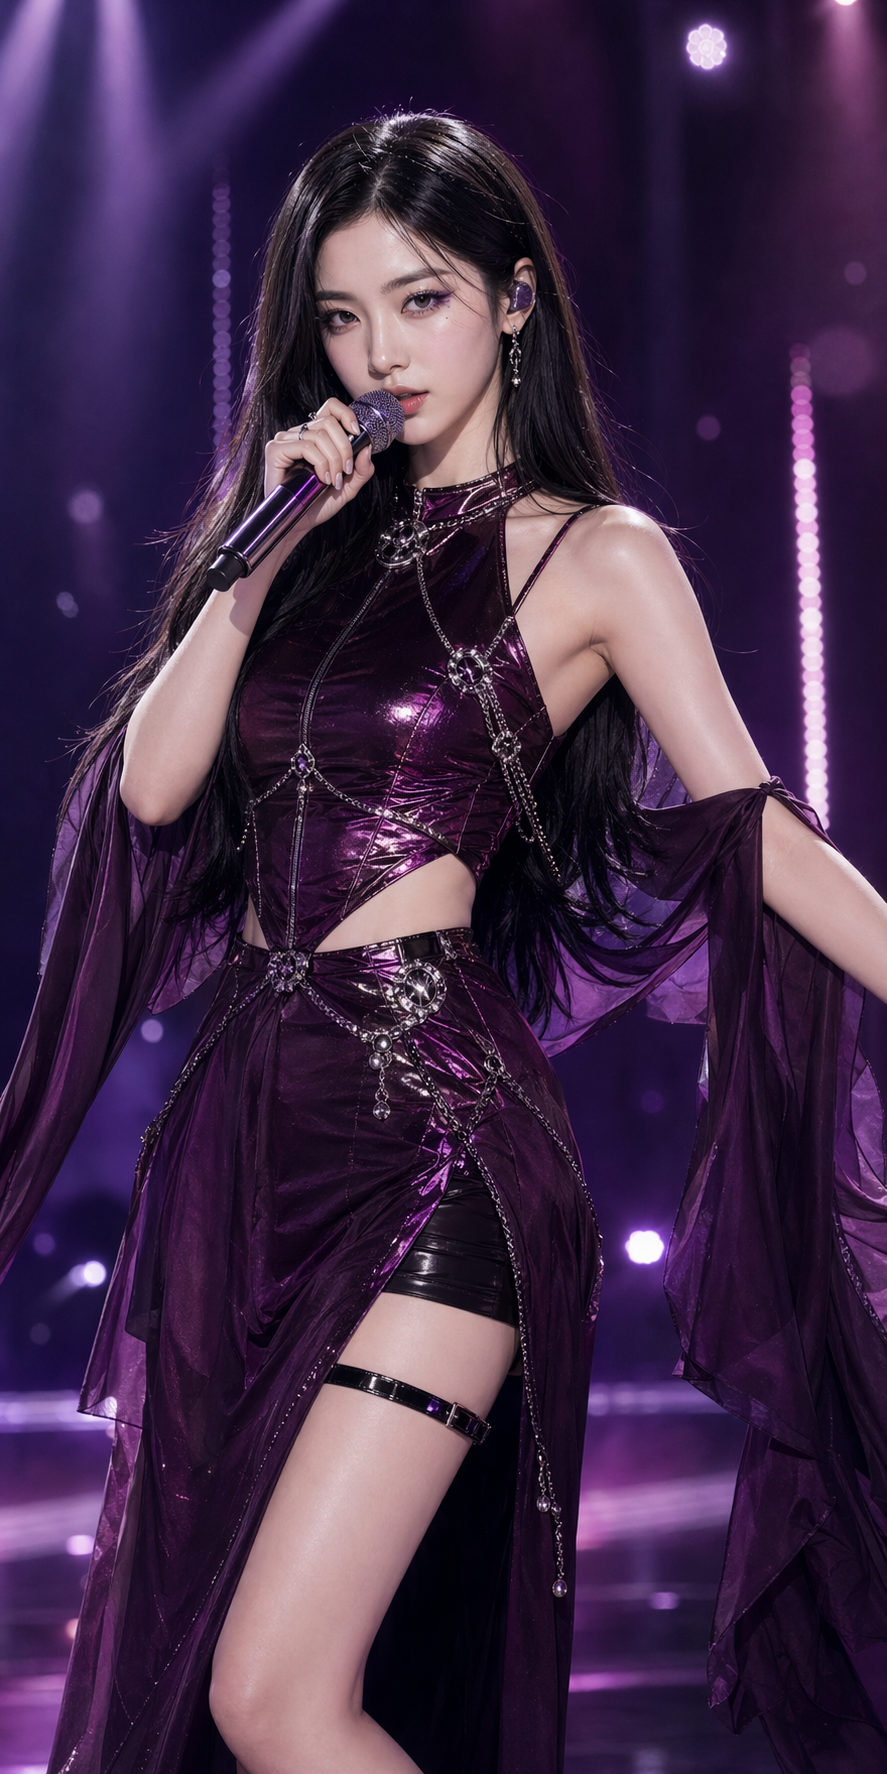
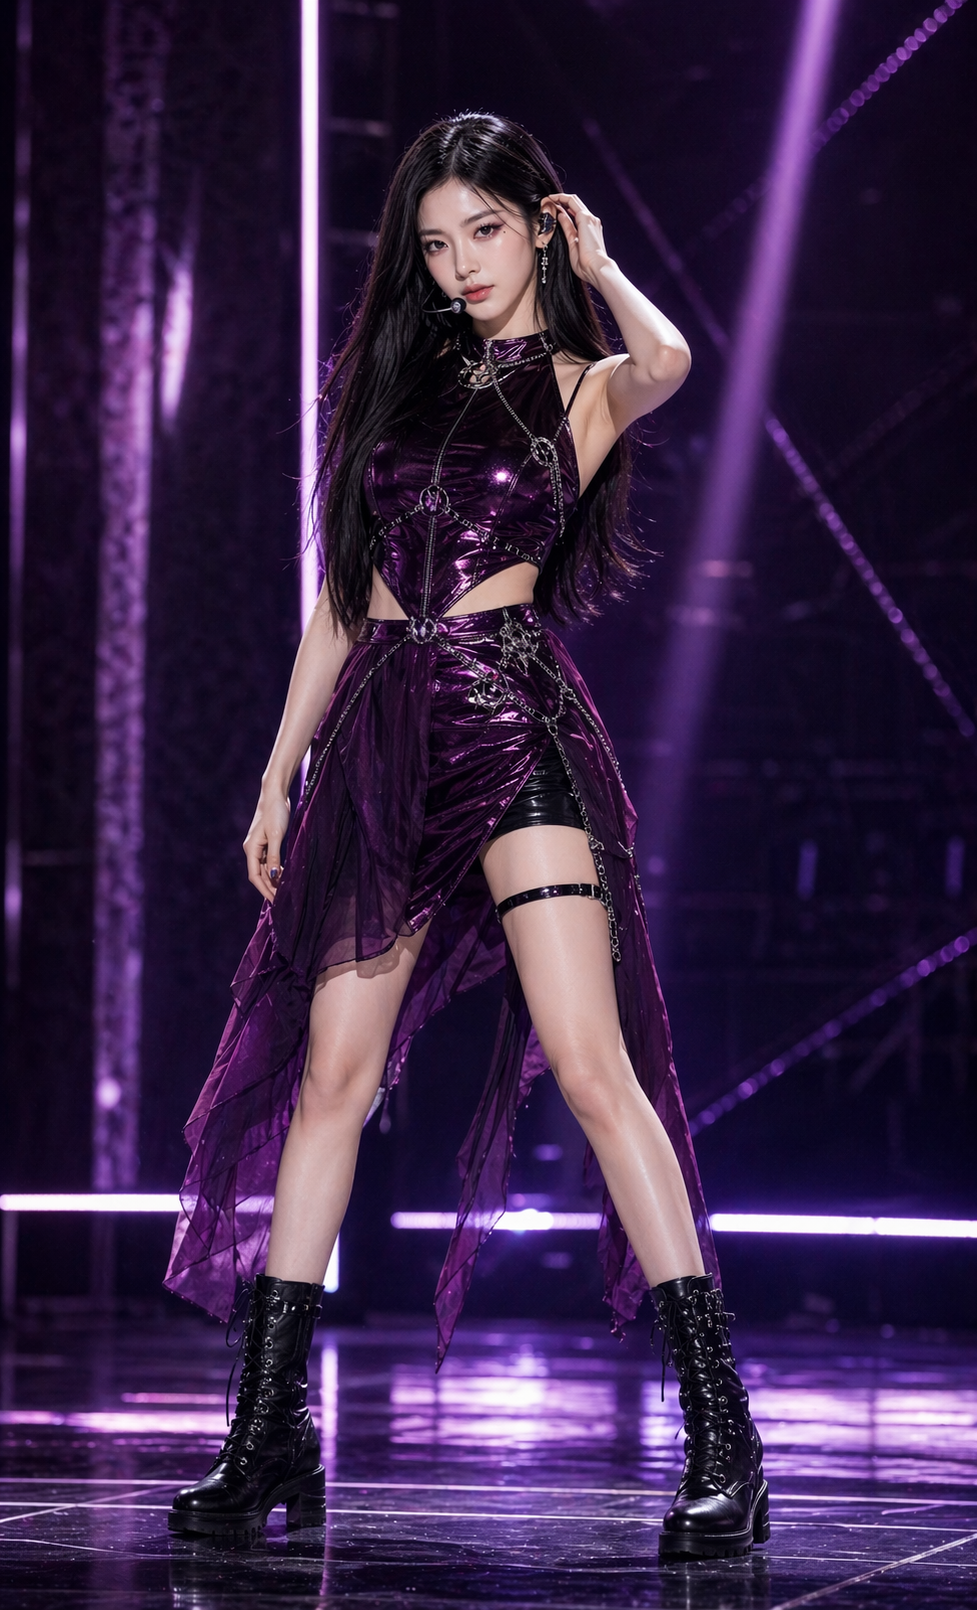
Refine MVP focus and update Yoon Serin cover

diff --git a/index.html b/index.html
@@ -38,15 +38,16 @@
           <div class="hero-copy">
             <p class="eyebrow">Official Label</p>
             <h1>
-              엔터사처럼 보이고,
+              윤세린을 메인으로 세우고,
               <br />
-              캐릭터 플랫폼처럼 작동하는
+              4캐릭 중심으로 먼저 여는
               <br />
               AI 아티스트 레이블
             </h1>
             <p class="hero-description">
-              메인 비주얼, 숏폼 피드, 프리미엄 화보 무드, 추후 캐릭터챗까지 확장 가능한
-              AI 엔터 프로젝트의 1차 웹 프로토타입입니다.
+              지금은 윤세린, 한서율, 박도아를 메인 운영 라인으로 두고 최서진을 프리미엄
+              간판으로 병행하는 1차 MVP 단계입니다. 팬 유입과 캐릭터 노출 구조를 먼저
+              완성한 뒤 후원과 캐릭터챗으로 확장합니다.
             </p>
 
             <div class="hero-actions">
@@ -57,35 +58,35 @@
 
             <dl class="hero-metrics">
               <div>
-                <dt>Main Roster</dt>
-                <dd>3 + 1</dd>
+                <dt>Main Focus</dt>
+                <dd>Yoon Serin</dd>
               </div>
               <div>
-                <dt>Total Characters</dt>
-                <dd>10</dd>
+                <dt>Current MVP</dt>
+                <dd>4 Characters</dd>
               </div>
               <div>
-                <dt>2nd Phase</dt>
-                <dd>Character Chat</dd>
+                <dt>Next Goal</dt>
+                <dd>Shortform Loop</dd>
               </div>
             </dl>
           </div>
 
           <div class="hero-visual">
             <article class="hero-card hero-card-primary">
-              <span>Main Visual A</span>
+              <span>Main Pick</span>
               <strong>윤세린</strong>
-              <p>냉미녀 퍼포먼스형, 첫 유입과 화제성을 담당하는 메인 비주얼.</p>
+              <p>메인 유입과 첫 인상을 담당하는 대표 비주얼. MVP 첫 화면의 중심 캐릭터.</p>
             </article>
             <article class="hero-card hero-card-secondary">
-              <span>Main Visual B</span>
+              <span>Main Expansion</span>
               <strong>한서율</strong>
-              <p>센터형 대중성, 팬 확장에 강한 메인 아이돌.</p>
+              <p>센터형 대중성과 팬 확장에 강한 서브 메인 축.</p>
             </article>
             <article class="hero-card hero-card-accent">
               <span>Community Hook</span>
               <strong>박도아</strong>
-              <p>친근함과 후속 팬덤 전환에 유리한 생활밀착형 스타.</p>
+              <p>친근함과 반응 전환을 담당하는 커뮤니티형 메인 캐릭터.</p>
             </article>
           </div>
         </div>
@@ -98,8 +99,8 @@
               <p class="eyebrow">Artists</p>
               <h2>메인 3인과 프리미엄 간판</h2>
               <p>
-                엔터사 톤의 메인 구성은 윤세린, 한서율, 박도아를 중심으로 운영하고,
-                최서진은 프리미엄 라인으로 별도 강화합니다.
+                현재 MVP는 4캐릭에 집중합니다. 윤세린을 메인 대표로 세우고, 한서율과
+                박도아로 확장하며, 최서진은 프리미엄 라인으로 별도 강화합니다.
               </p>
             </div>
           </div>
@@ -115,8 +116,8 @@
               <p class="eyebrow">Shortform Feed</p>
               <h2>숏폼은 빠르게 소비되고, 바로 캐릭터로 이어집니다</h2>
               <p>
-                메인 비주얼형, 팬서비스형, 콘셉트형 포맷을 반복 생산하는 구조를
-                가정한 피드 레이아웃입니다.
+                윤세린의 메인 비주얼형, 한서율의 센터형, 박도아의 팬 전환형,
+                최서진의 브랜드형 포맷을 우선 테스트하는 구조입니다.
               </p>
             </div>
           </div>

diff --git a/app.js b/app.js
@@ -320,15 +320,15 @@ const statusMeta = {
 const mainArtists = [
   {
     name: "윤세린",
-    role: "Main Visual A",
-    description: "냉미녀 퍼포먼스형. 첫 유입과 강한 비주얼 각인을 담당하는 메인 간판.",
-    tags: ["카리나 결", "퍼포먼스", "뷰티/향수"]
+    role: "Main Pick",
+    description: "MVP 첫 화면을 책임지는 메인 대표. 첫 유입과 강한 비주얼 각인을 담당하는 핵심 간판.",
+    tags: ["메인 대표", "퍼포먼스", "뷰티/향수"]
   },
   {
     name: "한서율",
-    role: "Main Visual B",
-    description: "센터형 대중성. 안정적인 팬 확장과 엔터사 메인 아티스트 포지션에 적합.",
-    tags: ["장원영 결", "센터형", "대중성"]
+    role: "Main Expansion",
+    description: "센터형 대중성을 담당하는 확장 축. 안정적인 팬 확장과 메인 아이돌 포지션에 적합.",
+    tags: ["센터형", "대중성", "확장"]
   },
   {
     name: "박도아",
@@ -345,12 +345,14 @@ const mainArtists = [
 ];
 
 const shortforms = [
-  { title: "메인 비주얼 티저", artist: "윤세린", metric: "조회 12.4만", tone: "강한 첫인상과 표정 변화 중심" },
-  { title: "센터 무드 스냅", artist: "한서율", metric: "조회 9.7만", tone: "정면 비주얼과 대중성 중심" },
-  { title: "친근 리액션 포맷", artist: "박도아", metric: "조회 15.3만", tone: "생활형 리액션과 팬서비스 중심" },
-  { title: "에디토리얼 컷 무드", artist: "최서진", metric: "조회 6.2만", tone: "화보형 무드와 광고 적합도 강조" },
-  { title: "콘셉트 퍼포먼스", artist: "윤세린", metric: "조회 11.8만", tone: "세련된 콘셉트와 퍼포먼스 무드" },
-  { title: "하이틴 센터 포맷", artist: "한서율", metric: "조회 10.1만", tone: "밝고 반짝이는 센터형 무드" }
+  { title: "메인 비주얼 티저", artist: "윤세린", metric: "조회 12.4만", tone: "첫 유입용 메인 비주얼 포맷, 강한 시선과 퍼포먼스 무드 중심" },
+  { title: "콘셉트 퍼포먼스", artist: "윤세린", metric: "조회 11.8만", tone: "무대 장악력과 퍼포먼스 센터 이미지를 강화하는 핵심 포맷" },
+  { title: "센터 무드 스냅", artist: "한서율", metric: "조회 9.7만", tone: "정면 비주얼과 대중성 확장을 담당하는 센터형 포맷" },
+  { title: "하이틴 센터 포맷", artist: "한서율", metric: "조회 10.1만", tone: "밝고 반짝이는 센터 무드로 팬 확장을 노리는 포맷" },
+  { title: "친근 리액션 포맷", artist: "박도아", metric: "조회 15.3만", tone: "생활형 리액션과 댓글 반응을 팬 전환으로 연결하는 포맷" },
+  { title: "먹방 리액션 티저", artist: "박도아", metric: "저장 3.7천", tone: "친근한 먹방 크리에이터 무드로 호감과 참여를 끌어오는 포맷" },
+  { title: "에디토리얼 컷 무드", artist: "최서진", metric: "조회 6.2만", tone: "브랜드 제안과 화보형 무드를 보여주는 프리미엄 포맷" },
+  { title: "브랜드 무드 필름", artist: "최서진", metric: "완주율 68%", tone: "광고·화보 적합도를 직접 보여주는 프리미엄 쇼케이스 포맷" }
 ];
 
 const businessPackages = [

diff --git a/characters.html b/characters.html
@@ -39,23 +39,23 @@
             <p class="eyebrow">Character Directory</p>
             <h1>메인, 프리미엄, 서브 라인을 한눈에 보는 캐릭터 페이지</h1>
             <p>
-              엔터사 아티스트 페이지처럼 보이되, 이후 캐릭터챗과 팬 전환 구조까지
-              확장 가능한 형태의 캐릭터 목록 페이지입니다. 지금은 메인 3인과
-              프리미엄 메인을 우선 노출하고, 나머지는 서브와 실험 라인으로 구분합니다.
+              지금은 4캐릭 운영에 집중하는 MVP 단계입니다. 윤세린을 메인 대표로 두고,
+              한서율과 박도아를 메인 운영 라인으로, 최서진을 프리미엄 메인으로 먼저
+              고정합니다. 나머지 캐릭터는 서브와 실험 라인으로 유지합니다.
             </p>
           </div>
           <aside class="page-hero-panel">
             <div>
+              <span>메인 대표</span>
+              <strong>윤세린</strong>
+            </div>
+            <div>
               <span>메인 운영</span>
-              <strong>윤세린 · 한서율 · 박도아</strong>
+              <strong>한서율 · 박도아</strong>
             </div>
             <div>
-              <span>프리미엄 라인</span>
+              <span>프리미엄 메인</span>
               <strong>최서진</strong>
-            </div>
-            <div>
-              <span>총 라인업</span>
-              <strong>10 Characters</strong>
             </div>
           </aside>
         </div>

diff --git a/shortform.html b/shortform.html
@@ -39,19 +39,19 @@
             <p class="eyebrow">Shortform Feed</p>
             <h1>유입을 만드는 숏폼과 팬 반응을 쌓는 포맷 허브</h1>
             <p>
-              이 페이지는 실제 플랫폼 피드처럼 숏폼을 연속 소비하게 만드는 구조입니다.
-              메인 캐릭터의 유입형 포맷과 프리미엄 라인의 브랜드형 포맷을 함께 정리해,
-              이후 캐릭터챗이나 후원으로 이어질 기반을 만듭니다.
+              현재는 4캐릭 중심 숏폼 포맷을 먼저 검증합니다. 윤세린의 메인 유입형,
+              한서율의 센터 확장형, 박도아의 팬 전환형, 최서진의 브랜드형 포맷을
+              우선 반복 테스트해 이후 팬 체류와 후원 구조로 이어갑니다.
             </p>
           </div>
           <aside class="page-hero-panel">
             <div>
               <span>메인 유입형</span>
-              <strong>윤세린 · 한서율</strong>
+              <strong>윤세린</strong>
             </div>
             <div>
-              <span>팬덤 전환형</span>
-              <strong>박도아</strong>
+              <span>확장 / 전환형</span>
+              <strong>한서율 · 박도아</strong>
             </div>
             <div>
               <span>브랜드형</span>